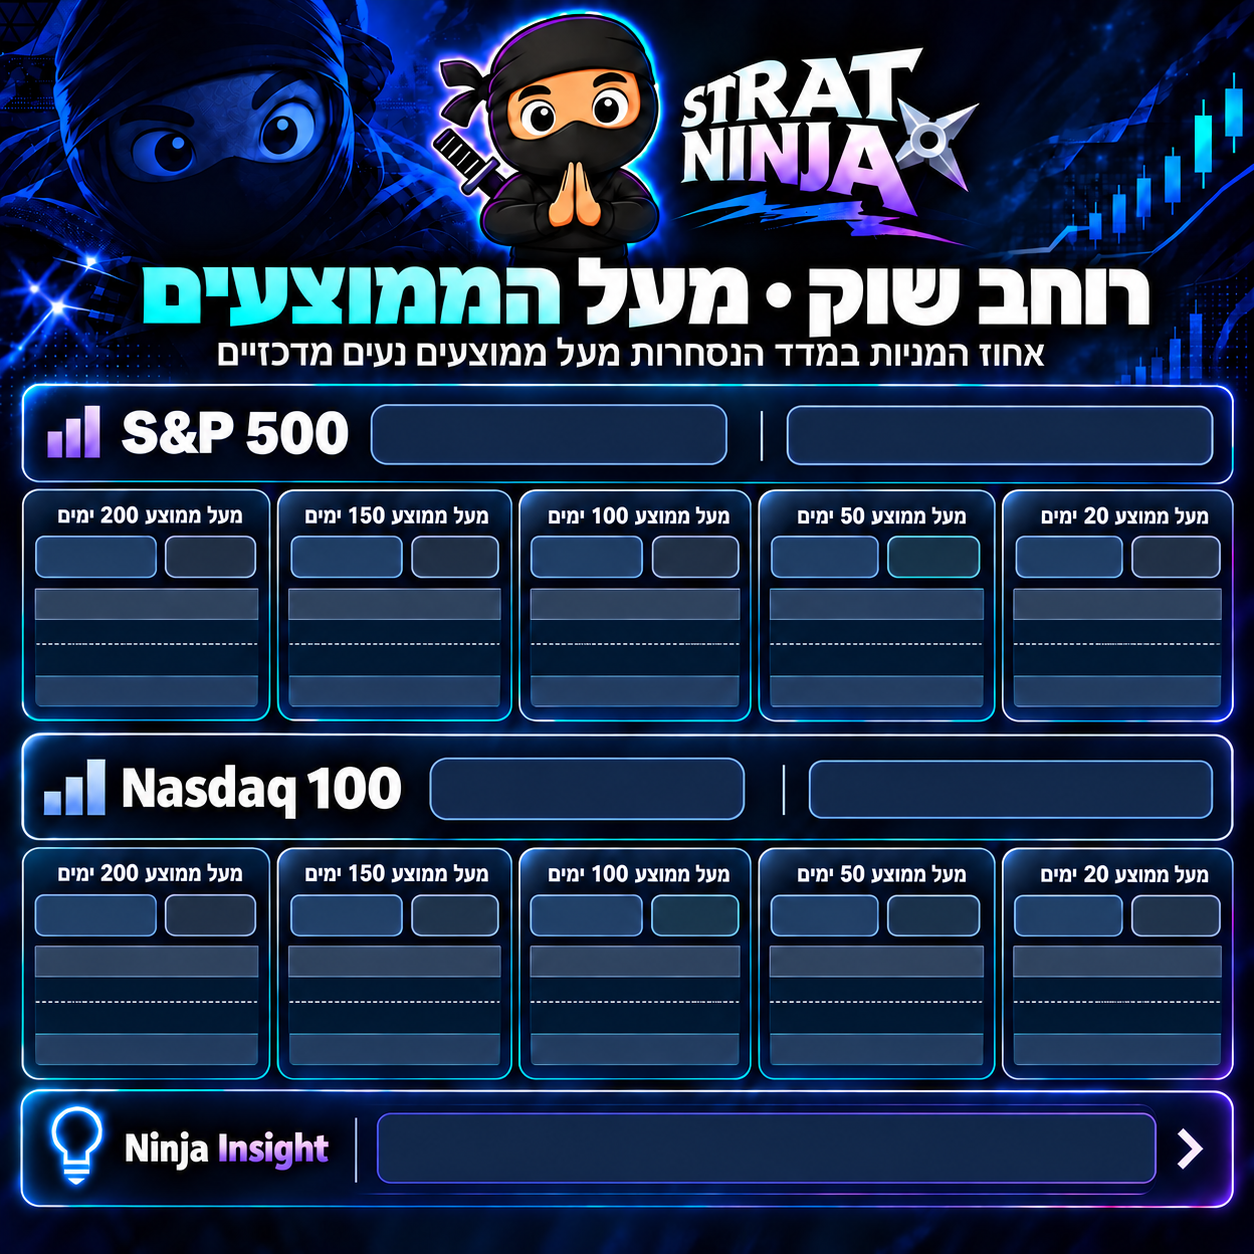
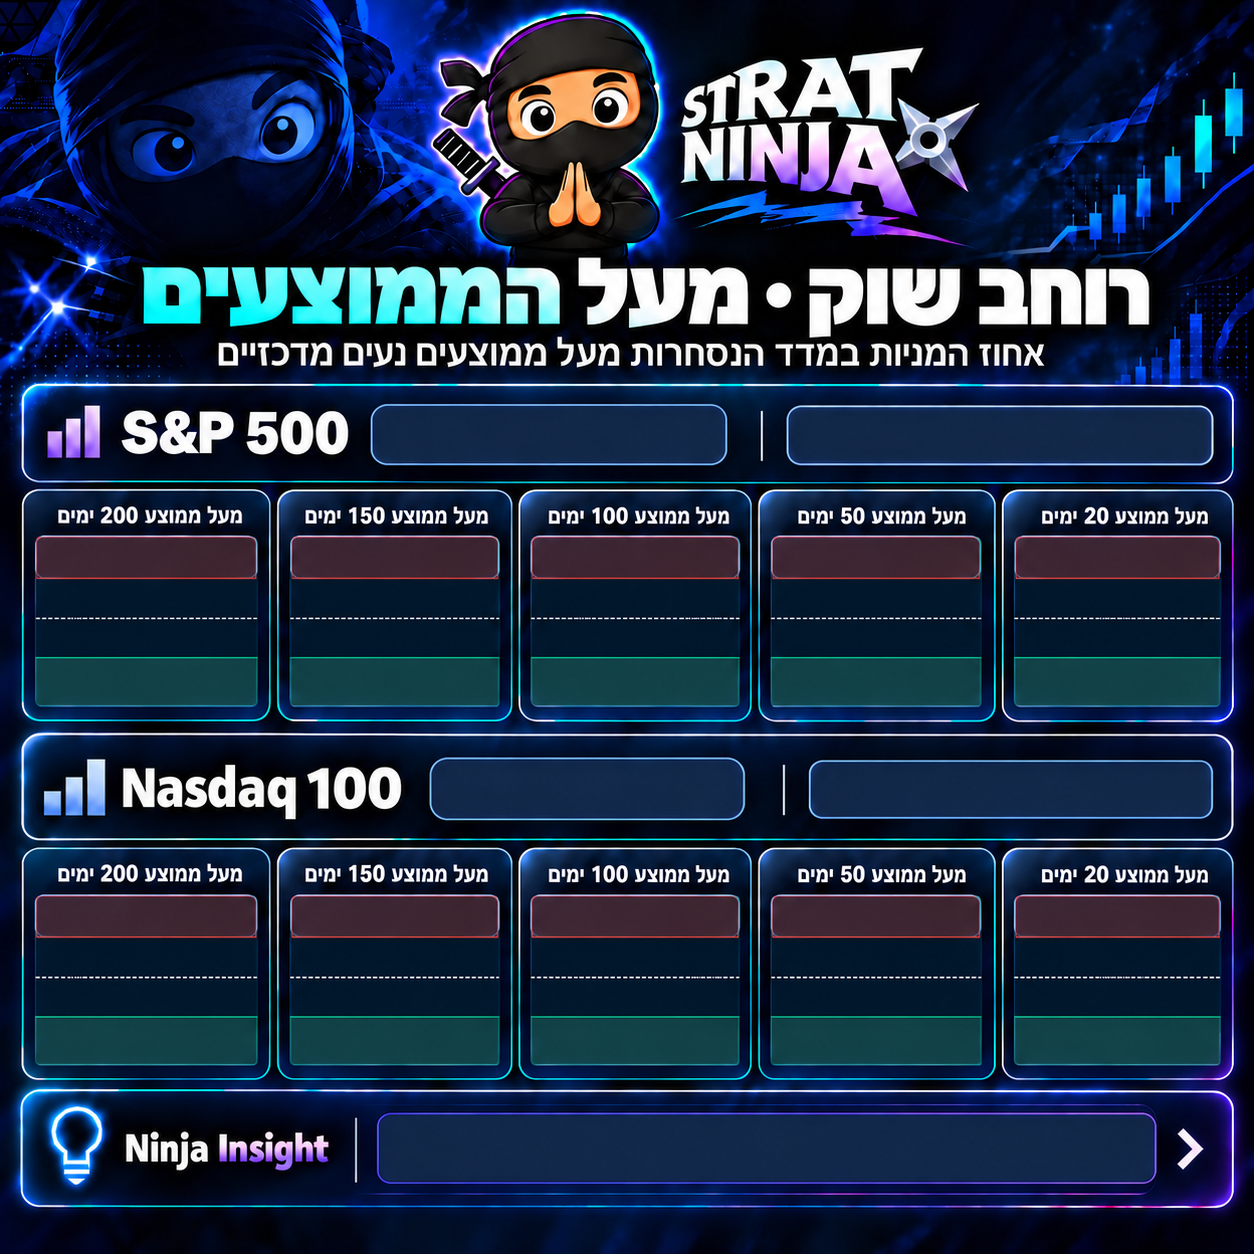
Breadth card: new cleaner template (v2); state pill red/yellow/green by strength + arrow; % + change badge overlay the sparkline box top; badge LTR; line green when breadth improves

diff --git a/redesign.css b/redesign.css
@@ -166,28 +166,29 @@ html[data-theme="light"] { --lux-g1:#0a875a; --lux-g2:#12b07d; --lux-gsoft:rgba(
 
 /* ===== breadth "מעל הממוצעים" share card — overlay on Breath_Template.png (1254²) ===== */
 .breadth-card { width: 1254px; height: 1254px; position: relative; direction: rtl; overflow: hidden;
-  background: #0B1020 url("Breath_Template.png?v=1") top center / 1254px 1254px no-repeat;
+  background: #0B1020 url("Breath_Template.png?v=2") top center / 1254px 1254px no-repeat;
   font-family: 'Heebo','Rubik',sans-serif; color: #eaf2ff; }
 .breadth-card > div { position: absolute; }
 .brd-date { top: 1.6%; left: 2.2%; font-size: 20px; font-weight: 800; color: #d3e4ff; text-shadow: 0 1px 8px rgba(0,0,0,.7); }
 /* index state pill + description (per index header row) */
 .brd-sp-state, .brd-ndx-state { width: 29%; left: 30%; text-align: center; }
 .brd-sp-state { top: 33.4%; } .brd-ndx-state { top: 61.2%; }
-.brd-state-pill { display: inline-block; font-size: 19px; font-weight: 900; padding: 5px 16px; border-radius: 20px; white-space: nowrap; }
+.brd-state-pill { display: inline-block; font-size: 18px; font-weight: 900; padding: 5px 16px; border-radius: 20px; white-space: nowrap; }
+.brd-state-arrow { font-size: 14px; vertical-align: middle; }
 .brd-sp-state.pos .brd-state-pill, .brd-ndx-state.pos .brd-state-pill { color: #3fe0a0; background: rgba(22,184,119,.16); }
 .brd-sp-state.neg .brd-state-pill, .brd-ndx-state.neg .brd-state-pill { color: #ff6b7a; background: rgba(229,56,74,.16); }
 .brd-sp-state.zero .brd-state-pill, .brd-ndx-state.zero .brd-state-pill { color: #e0b341; background: rgba(224,179,65,.16); }
 .brd-sp-desc, .brd-ndx-desc { width: 34%; left: 63%; text-align: start; font-size: 18px; font-weight: 600; line-height: 1.35; color: #dbe8fb; }
 .brd-sp-desc { top: 32.8%; } .brd-ndx-desc { top: 60.6%; }
-/* per-MA card: big %, daily-change badge, sparkline (zones are baked in the template box) */
-.brd-card { width: 19.5%; height: 15%; }
-.brd-sp-card { top: 42.2%; } .brd-ndx-card { top: 71%; }
-.brd-card .brd-pct { position: absolute; top: 2%; left: 6%; font-size: 34px; font-weight: 900; color: #ffffff; }
-.brd-card .brd-chg { position: absolute; top: 11%; right: 6%; font-size: 15px; font-weight: 800; padding: 2px 8px; border-radius: 8px; white-space: nowrap; }
-.brd-card .brd-chg.pos { color: #3fe0a0; background: rgba(22,184,119,.16); }
-.brd-card .brd-chg.neg { color: #ff6b7a; background: rgba(229,56,74,.16); }
-.brd-card .brd-chg.zero { color: #9fb0c8; background: rgba(150,160,180,.14); }
-.brd-card .brd-spk { position: absolute; top: 40%; left: 4%; right: 4%; height: 52%; }
+/* per-MA card = one sparkline box (zones baked); % + change badge overlay its top strip */
+.brd-card { width: 19.5%; height: 13.8%; }
+.brd-sp-card { top: 43.4%; } .brd-ndx-card { top: 72%; }
+.brd-card .brd-spk { position: absolute; top: 0; left: 3%; right: 3%; height: 100%; }
+.brd-card .brd-pct { position: absolute; top: 3%; left: 7%; font-size: 30px; font-weight: 900; color: #ffffff; text-shadow: 0 1px 6px rgba(0,0,0,.75); }
+.brd-card .brd-chg { position: absolute; top: 8%; right: 7%; direction: ltr; font-size: 15px; font-weight: 800; padding: 2px 8px; border-radius: 8px; white-space: nowrap; }
+.brd-card .brd-chg.pos { color: #3fe0a0; background: rgba(22,184,119,.2); }
+.brd-card .brd-chg.neg { color: #ff6b7a; background: rgba(229,56,74,.2); }
+.brd-card .brd-chg.zero { color: #cdd7e6; background: rgba(150,160,180,.18); }
 .brd-insight { top: 90.4%; left: 29%; width: 63%; font-size: 20px; font-weight: 800; color: #eaf2ff; line-height: 1.35; text-align: start; }
 .brd-foot-left { top: 97%; left: 3%; font-size: 15px; font-weight: 700; color: #9fb3d4; white-space: nowrap; }
 .brd-foot-right { top: 97%; left: 55%; width: 42%; text-align: right; font-size: 15px; font-weight: 700; color: #9fb3d4; white-space: nowrap; }

diff --git a/pages.js b/pages.js
@@ -3629,15 +3629,24 @@
         const dchg = (cur != null && prev != null) ? (cur - prev) : null;
         const dcls = dchg == null ? "zero" : dchg > 0.05 ? "pos" : dchg < -0.05 ? "neg" : "zero";
         const dtxt = dchg == null ? "" : (dchg >= 0 ? "▲ " : "▼ ") + Math.abs(dchg).toFixed(1);
-        const zcls = cur == null ? "" : cur <= 35 ? "pos" : cur >= 65 ? "neg" : "";
+        const zcls = dchg != null && dchg > 0.1 ? "pos" : "";   // line green when today's breadth improves, else white
         return '<div class="brd-card ' + rowCls + '" style="left:' + cardL[i] + '%">' +
+          '<div class="brd-spk">' + _spark(s, zcls) + "</div>" +
           '<span class="brd-pct">' + (cur == null ? "—" : cur.toFixed(0) + "%") + "</span>" +
           (dtxt ? '<span class="brd-chg ' + dcls + '">' + dtxt + "</span>" : "") +
-          '<div class="brd-spk">' + _spark(s, zcls) + "</div></div>";
+          "</div>";
       }).join("");
     };
     const _st = uni => _brdState(_brdReadings(uni));
-    const _pill = st => st ? st.lbl.replace(/^\S+\s/, "") : "—";
+    // card state pill: market STRENGTH colouring (weak→red▼, neutral→yellow▬, strong→green▲) + arrow
+    const _cardState = uni => {
+      const st = _st(uni); if (!st) return null;
+      const s = st.score;
+      if (s <= 40) return { txt: s <= 20 ? "חלש מאוד · Oversold עמוק" : "חלש · מתקרב ל-oversold", cls: "neg", arrow: "▼" };
+      if (s <= 60) return { txt: "ניטרלי · תמיכה יציבה", cls: "zero", arrow: "▬" };
+      return { txt: s >= 80 ? "חזק מאוד · Overbought" : "חזק · מתקרב ל-overbought", cls: "pos", arrow: "▲" };
+    };
+    const _pillHtml = cs => cs ? '<span class="brd-state-pill"><span class="brd-state-arrow">' + cs.arrow + "</span> " + cs.txt + "</span>" : '<span class="brd-state-pill">—</span>';
     const _desc = (uni, st) => {
       const nm = uni === "sp" ? "S&P 500" : "Nasdaq 100";
       if (!st) return "";
@@ -3650,6 +3659,7 @@
       return "רוחב השוק במדד " + nm + " " + d;
     };
     const spSt = _st("sp"), ndxSt = _st("ndx");
+    const spCs = _cardState("sp"), ndxCs = _cardState("ndx");
     const now = new Date(), _p2 = x => String(x).padStart(2, "0");
     const dateStr = now.getDate() + "." + (now.getMonth() + 1) + "." + now.getFullYear() + " · " + _p2(now.getHours()) + ":" + _p2(now.getMinutes());
     let insight;
@@ -3663,10 +3673,10 @@
     el.className = "breadth-card";
     el.innerHTML =
       '<div class="brd-date">🕐 ' + dateStr + "</div>" +
-      '<div class="brd-sp-state ' + (spSt ? spSt.cls : "zero") + '"><span class="brd-state-pill">' + _pill(spSt) + "</span></div>" +
+      '<div class="brd-sp-state ' + (spCs ? spCs.cls : "zero") + '">' + _pillHtml(spCs) + "</div>" +
       '<div class="brd-sp-desc">' + _desc("sp", spSt) + "</div>" +
       cards("sp", "brd-sp-card") +
-      '<div class="brd-ndx-state ' + (ndxSt ? ndxSt.cls : "zero") + '"><span class="brd-state-pill">' + _pill(ndxSt) + "</span></div>" +
+      '<div class="brd-ndx-state ' + (ndxCs ? ndxCs.cls : "zero") + '">' + _pillHtml(ndxCs) + "</div>" +
       '<div class="brd-ndx-desc">' + _desc("ndx", ndxSt) + "</div>" +
       cards("ndx", "brd-ndx-card") +
       '<div class="brd-insight">' + insight + "</div>" +
